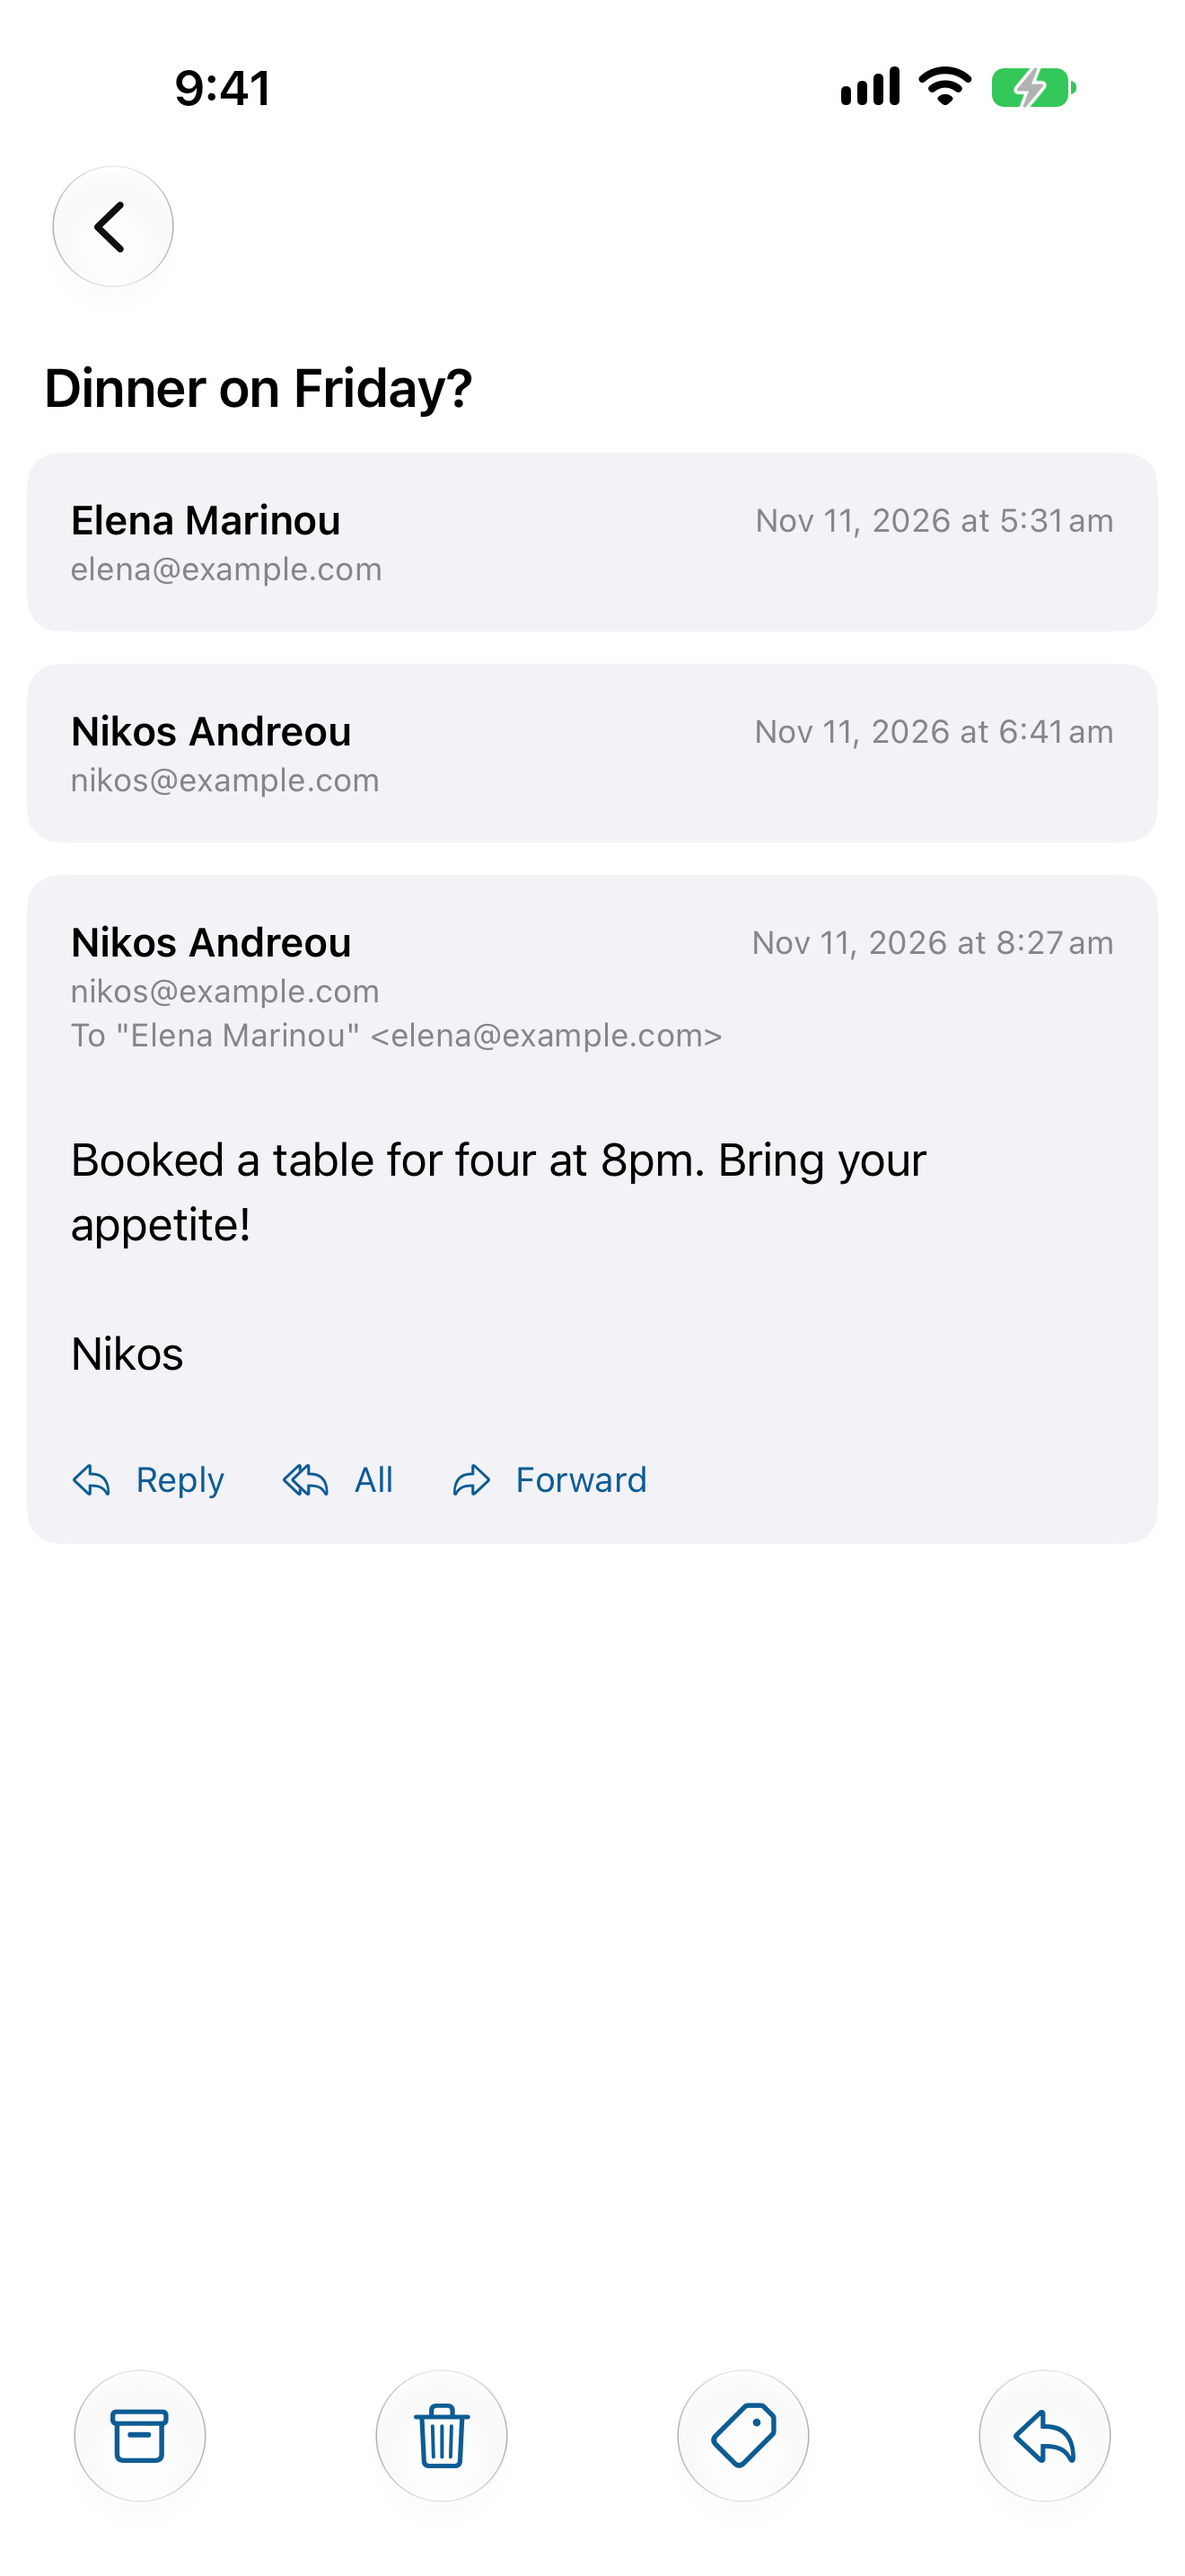
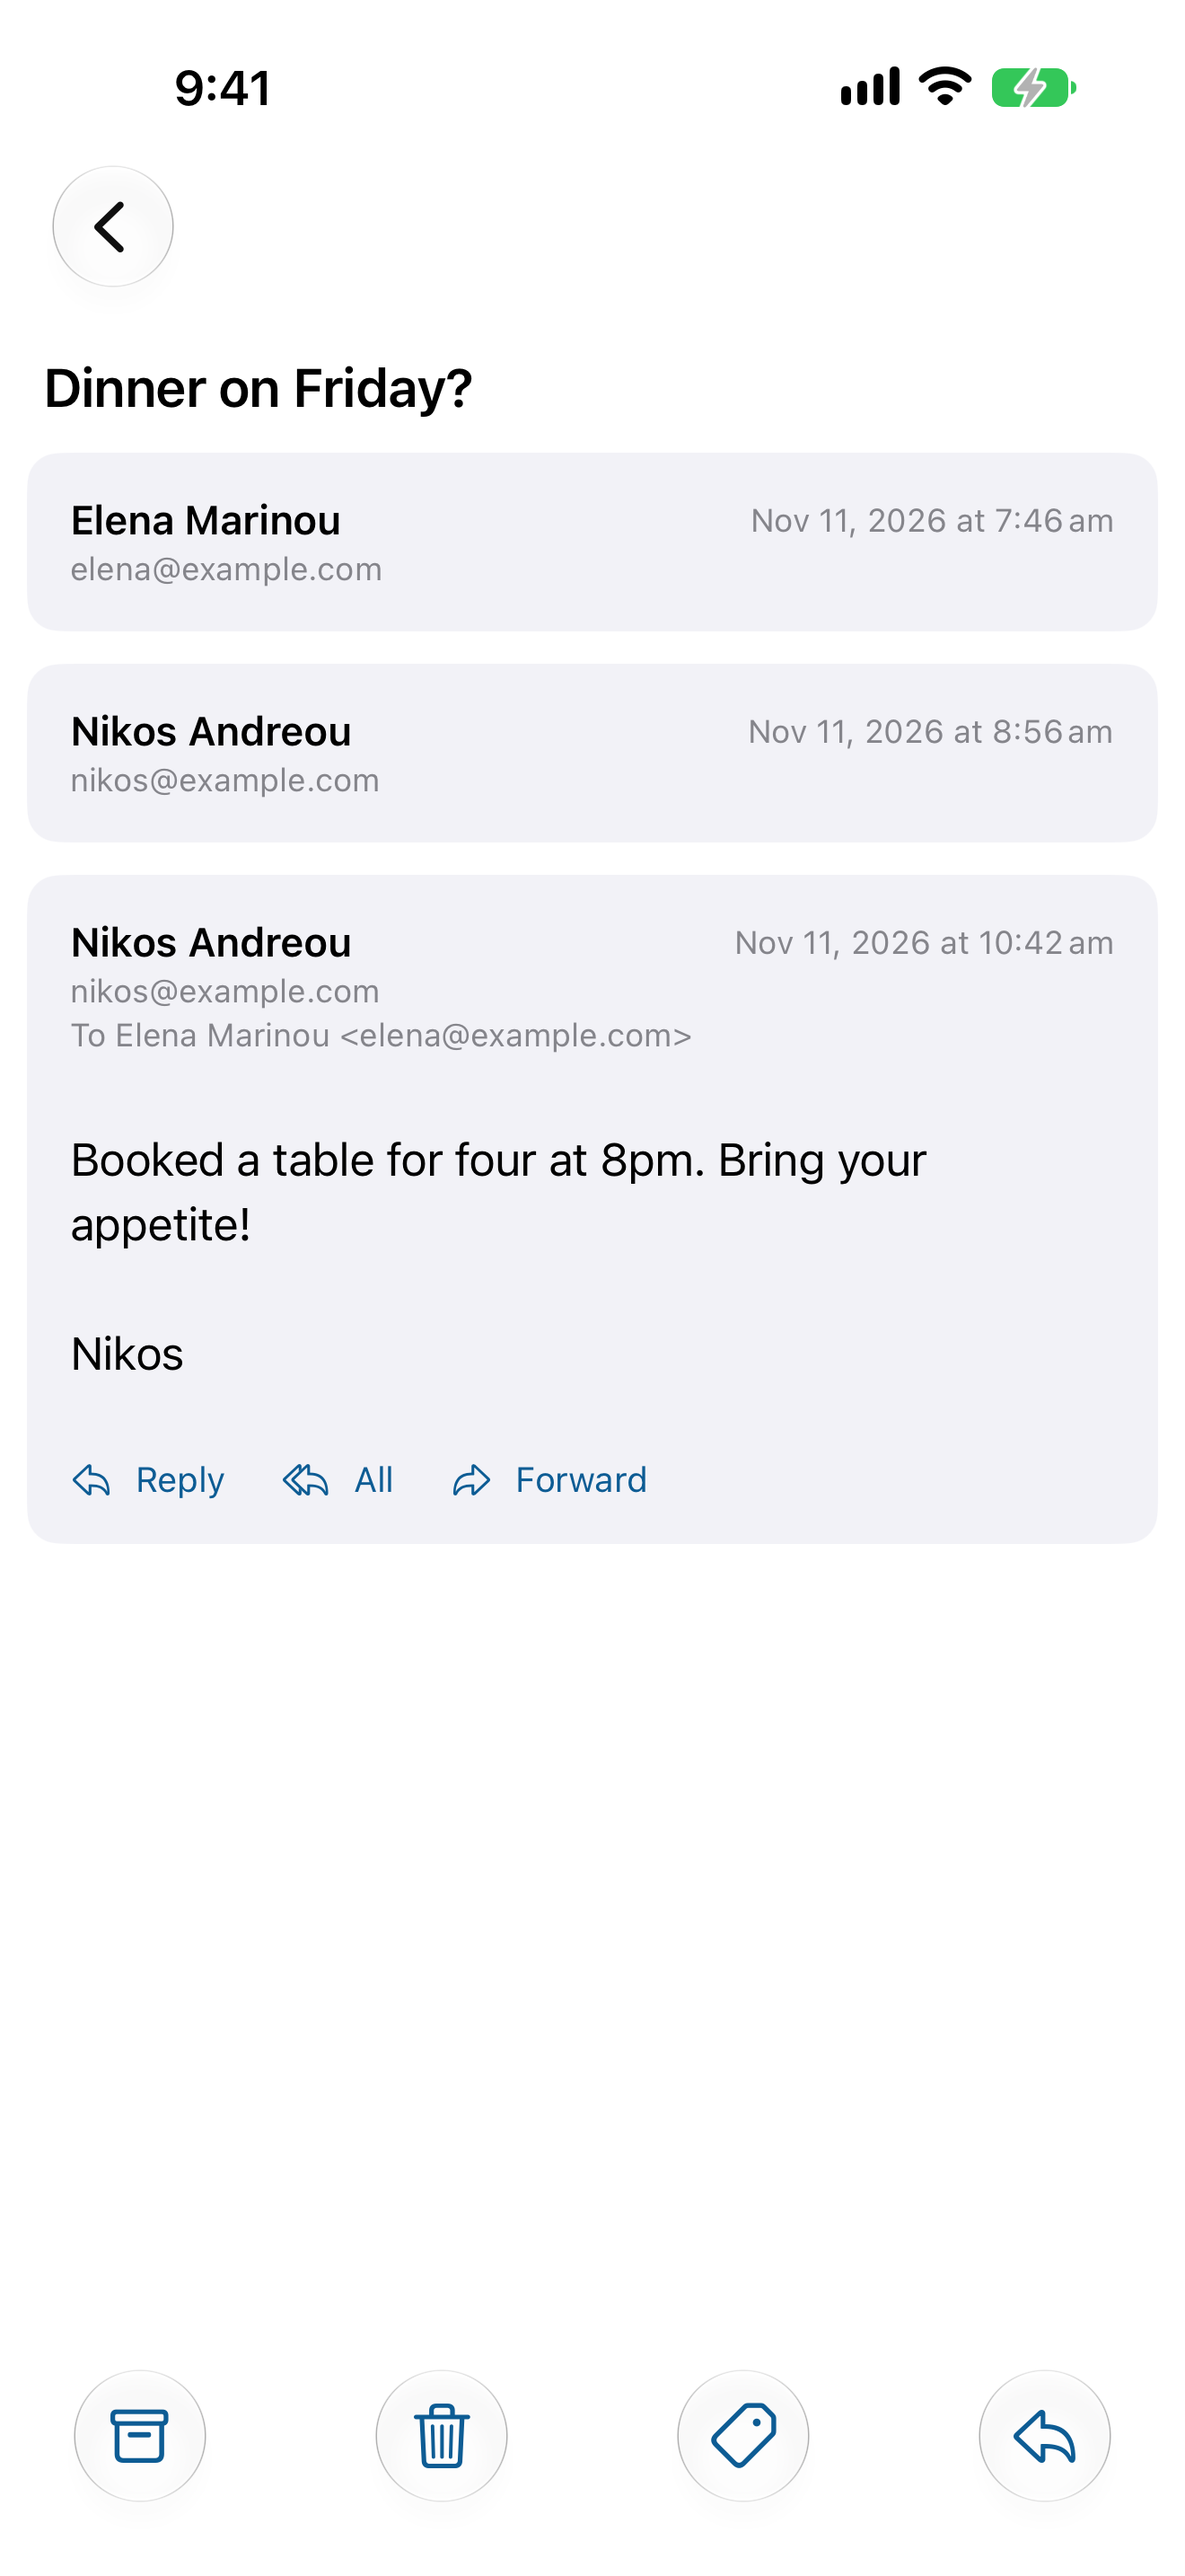
Send with the account's display name from Gmail's sendAs settings
Sent mail and drafts now go out as "Nikos Andreou <nikos@example.com>"
instead of the bare address. The name comes from users.settings.sendAs
(the entry for the account's own address, else the primary one), is fetched
once per account per launch, and falls back to the bare address when Gmail
has no name or can't be reached. Plain names are no longer quoted; names with
RFC 5322 specials are quoted and escaped, and non-ASCII names are encoded.

The mock serves sendAs and logs the exact From header; unit and UI tests
check it. Screenshots retaken so 5-Encrypted shows the sender's name. UI test
helpers only type once a field has keyboard focus.

diff --git a/AeoletUITests/ComposeUITests.swift b/AeoletUITests/ComposeUITests.swift
@@ -22,7 +22,10 @@ final class ComposeUITests: AeoletUITestCase {
         let start = logPosition
         send()
 
-        let sent = waitForLog("SEND from=\(Self.elena)", after: start)
+        let sent = waitForLog("SEND account=\(Self.elena)", after: start)
+        // The From line carries the display name from Gmail's sendAs settings.
+        XCTAssertTrue(sent.contains("from=Elena Marinou <elena@example.com> |"), sent)
+        waitForLog("GET /settings/sendAs account=\(Self.elena)")
         XCTAssertTrue(sent.contains("to=sofia@example.org |"), sent)
         XCTAssertTrue(sent.contains("cc= |"), sent)
         XCTAssertTrue(sent.contains("subject=Weekend plans |"), sent)
@@ -45,8 +48,8 @@ final class ComposeUITests: AeoletUITestCase {
         type("Sounds perfect, see you there. ", into: app.textViews.firstMatch)
         var start = logPosition
         send()
-        let reply = waitForLog("SEND from=\(Self.elena)", "subject=Re: Dinner on Friday?", after: start)
-        XCTAssertTrue(reply.contains("to=\"Nikos Andreou\" <nikos@example.com> |"), reply)
+        let reply = waitForLog("SEND account=\(Self.elena)", "subject=Re: Dinner on Friday?", after: start)
+        XCTAssertTrue(reply.contains("to=Nikos Andreou <nikos@example.com> |"), reply)
         XCTAssertTrue(reply.contains("cc= |"), reply)
         XCTAssertFalse(reply.contains("inReplyTo= |"), "Reply must carry In-Reply-To: \(reply)")
         XCTAssertFalse(reply.contains("threadId= |"), "Reply must stay in the thread: \(reply)")
@@ -61,7 +64,7 @@ final class ComposeUITests: AeoletUITestCase {
         XCTAssertFalse(ccValue.contains(Self.elena), "Reply all must not copy me: \(ccValue)")
         start = logPosition
         send()
-        let replyAll = waitForLog("SEND from=\(Self.elena)", "subject=Re: Dinner on Friday?", after: start)
+        let replyAll = waitForLog("SEND account=\(Self.elena)", "subject=Re: Dinner on Friday?", after: start)
         XCTAssertTrue(replyAll.contains("nikos@example.com"), replyAll)
         XCTAssertTrue(replyAll.contains("sofia@example.org") && replyAll.contains("maria@example.org"), replyAll)
         XCTAssertFalse(replyAll.contains("inReplyTo= |"), replyAll)
@@ -77,8 +80,11 @@ final class ComposeUITests: AeoletUITestCase {
         type("yannis@example.org", into: field("To"))
         start = logPosition
         send()
-        let forwarded = waitForLog("SEND from=\(Self.elena)", "subject=Fwd: Your ferry tickets", after: start)
+        let forwarded = waitForLog("SEND account=\(Self.elena)", "subject=Fwd: Your ferry tickets", after: start)
         XCTAssertTrue(forwarded.contains("to=yannis@example.org |"), forwarded)
+        XCTAssertTrue(forwarded.contains("from=Elena Marinou <elena@example.com> |"), forwarded)
+        // The name is fetched once per launch, not once per message.
+        XCTAssertFalse(log.contains { Self.number(ofLogLine: $0) > start && $0.contains("GET /settings/sendAs") }, "\(log)")
         XCTAssertTrue(forwarded.contains("attachments=Boarding passes.pdf |"), forwarded)
         XCTAssertTrue(forwarded.contains("inReplyTo= |"), forwarded)
         XCTAssertTrue(forwarded.contains("threadId= |"), forwarded)

diff --git a/Aeolet/Debug/MockGmail.swift b/Aeolet/Debug/MockGmail.swift
@@ -124,10 +124,13 @@ final class MockGmailServer: @unchecked Sendable {
 
     final class Mailbox {
         let address: String
+        /// The name Gmail's sendAs settings report for the primary address.
+        let displayName: String
         var messages: [Message] = []
         var labels: [Label]
-        init(address: String, labels: [Label]) {
+        init(address: String, displayName: String, labels: [Label]) {
             self.address = address
+            self.displayName = displayName
             self.labels = labels
         }
     }
@@ -255,6 +258,13 @@ final class MockGmailServer: @unchecked Sendable {
             record("GET /profile account=\(account)")
             return .success(.json(["emailAddress": account, "messagesTotal": mailbox.messages.count,
                                    "threadsTotal": Set(mailbox.messages.map(\.threadID)).count, "historyId": "\(1000 + counter)"]))
+        case ("GET", "settings", 2) where parts[1] == "sendAs":
+            record("GET /settings/sendAs account=\(account)")
+            return .success(.json(["sendAs": [
+                ["sendAsEmail": "\(account.split(separator: "@")[0])+alias@example.com", "displayName": "Alias", "isPrimary": false, "isDefault": false],
+                ["sendAsEmail": account, "displayName": mailbox.displayName, "replyToAddress": "", "signature": "",
+                 "isPrimary": true, "isDefault": true, "treatAsAlias": false],
+            ]]))
         case ("GET", "labels", 1):
             return .success(.json(["labels": mailbox.labels.map { ["id": $0.id, "name": $0.name, "type": $0.type] }]))
         case ("GET", "labels", 2):
@@ -378,7 +388,7 @@ final class MockGmailServer: @unchecked Sendable {
 
         let sent = store(raw: raw, in: mailbox, labels: draft ? ["DRAFT"] : ["SENT"], threadID: requestedThread)
         let summary = Self.summary(of: sent, threadID: requestedThread)
-        record("\(draft ? "DRAFT" : "SEND") from=\(mailbox.address) \(summary)")
+        record("\(draft ? "DRAFT" : "SEND") account=\(mailbox.address) from=\(sent.header("From")) | \(summary)")
 
         if !draft {
             let recipients = (sent.header("To") + "," + sent.header("Cc") + "," + sent.header("Bcc"))

diff --git a/Aeolet/Mail/ComposeModel.swift b/Aeolet/Mail/ComposeModel.swift
@@ -95,13 +95,29 @@ final class ComposeModel: ObservableObject {
         }
     }
 
+    /// Display names from Gmail's sendAs settings, fetched once per account per launch.
+    private static var senderNames: [String: String] = [:]
+
+    /// The account's display name. If Gmail can't be asked (offline, say), the mail goes out with the bare address.
+    private func senderName() async -> String? {
+        if let cached = Self.senderNames[account] { return cached.isEmpty ? nil : cached }
+        do {
+            let name = try await client.senderDisplayName()
+            Self.senderNames[account] = name ?? ""
+            return name
+        } catch {
+            return nil
+        }
+    }
+
     private var isReply: Bool { context.mode == .reply || context.mode == .replyAll }
 
     private func buildMessage(passphrase: String?) async throws -> Data {
         let content = MIMEBuilder.contentEntity(text: body, attachments: attachments)
         let entity = try await pgp.protect(entity: content, account: account, recipients: recipients,
                                            encrypt: encrypt, sign: sign, passphrase: passphrase)
-        var headers = OutgoingHeaders(from: account, to: to.splitAddresses, cc: cc.splitAddresses, bcc: bcc.splitAddresses, subject: subject)
+        let from = OutgoingHeaders.sender(account: account, displayName: await senderName())
+        var headers = OutgoingHeaders(from: from, to: to.splitAddresses, cc: cc.splitAddresses, bcc: bcc.splitAddresses, subject: subject)
         if isReply, let source = context.source, !source.messageIDHeader.isEmpty {
             headers.inReplyTo = source.messageIDHeader
             headers.references = [source.references, source.messageIDHeader].filter { !$0.isEmpty }.joined(separator: " ")

diff --git a/AeoletTests/CoreTests.swift b/AeoletTests/CoreTests.swift
@@ -126,4 +126,25 @@ final class CoreTests: XCTestCase {
         XCTAssertNil(cached.contentType)
         XCTAssertEqual(cached.preview, .encrypted)
     }
+
+    func testFromLineUsesTheSendAsDisplayName() {
+        let entries = [
+            GmailSendAs(sendAsEmail: "alias@example.com", displayName: "Alias", isPrimary: false, isDefault: false),
+            GmailSendAs(sendAsEmail: "Nikos@Example.com", displayName: " Nikos Andreou ", isPrimary: true, isDefault: true),
+        ]
+        let name = GmailClient.displayName(for: "nikos@example.com", in: entries)
+        XCTAssertEqual(name, "Nikos Andreou")
+        XCTAssertNil(GmailClient.displayName(for: "a@example.com", in: [GmailSendAs(sendAsEmail: "a@example.com", displayName: "", isPrimary: true, isDefault: true)]))
+
+        func fromLine(_ name: String?) -> String {
+            let headers = OutgoingHeaders(from: OutgoingHeaders.sender(account: "nikos@example.com", displayName: name), to: ["e@example.com"], subject: "Hi")
+            let text = String(decoding: MIMEBuilder.message(headers: headers, entity: Data("\r\nbody".utf8), senderDomain: "example.com"), as: UTF8.self)
+            return text.components(separatedBy: "\r\n").first { $0.hasPrefix("From: ") } ?? ""
+        }
+        XCTAssertEqual(fromLine(name), "From: Nikos Andreou <nikos@example.com>")
+        XCTAssertEqual(fromLine(nil), "From: nikos@example.com")
+        XCTAssertEqual(fromLine("Andreou, Nikos"), "From: \"Andreou, Nikos\" <nikos@example.com>")
+        XCTAssertEqual(fromLine("Νίκος Ανδρέου"), "From: =?UTF-8?B?zp3Or866zr/PgiDOkc69zrTPgc6tzr/PhQ==?= <nikos@example.com>")
+        XCTAssertFalse(fromLine("Nikos\r\nBcc: evil@example.org").contains("\r\nBcc"))
+    }
 }

diff --git a/Aeolet/Mail/MIME.swift b/Aeolet/Mail/MIME.swift
@@ -333,6 +333,12 @@ struct OutgoingAttachment: Identifiable, Hashable {
 }
 
 struct OutgoingHeaders {
+    /// "Name <address>", or just the address when there is no name.
+    static func sender(account: String, displayName: String?) -> String {
+        let name = MIMEBuilder.sanitised(displayName ?? "")
+        return name.isEmpty ? account : "\(name) <\(account)>"
+    }
+
     var from: String
     var to: [String]
     var cc: [String] = []
@@ -375,7 +381,11 @@ enum MIMEBuilder {
         let mailbox = String(clean[open...])
         if name.isEmpty { return mailbox }
         if name.allSatisfy({ $0.isASCII }) {
-            return "\"\(name.replacingOccurrences(of: "\"", with: ""))\" \(mailbox)"
+            // Plain names go as they are; names with RFC 5322 specials, such as "Andreou, Nikos", are quoted.
+            let specials = CharacterSet(charactersIn: "()<>[]:;@\\,.\"")
+            if name.unicodeScalars.allSatisfy({ !specials.contains($0) }) { return "\(name) \(mailbox)" }
+            let escaped = name.replacingOccurrences(of: "\\", with: "\\\\").replacingOccurrences(of: "\"", with: "\\\"")
+            return "\"\(escaped)\" \(mailbox)"
         }
         return "\(encodeHeaderWord(name)) \(mailbox)"
     }

diff --git a/Aeolet/Gmail/GmailClient.swift b/Aeolet/Gmail/GmailClient.swift
@@ -138,6 +138,20 @@ struct GmailClient {
 
     func profile() async throws -> GmailProfile { try await get("/profile") }
 
+    /// The display name Gmail uses for this account's own address, from its "Send mail as" settings.
+    /// Nil when Gmail has none set.
+    func senderDisplayName() async throws -> String? {
+        let list: GmailSendAsList = try await get("/settings/sendAs")
+        return Self.displayName(for: account, in: list.sendAs ?? [])
+    }
+
+    static func displayName(for account: String, in entries: [GmailSendAs]) -> String? {
+        let own = entries.first { $0.sendAsEmail.caseInsensitiveCompare(account) == .orderedSame }
+            ?? entries.first { $0.isPrimary == true }
+        let name = own?.displayName?.trimmingCharacters(in: .whitespacesAndNewlines) ?? ""
+        return name.isEmpty ? nil : name
+    }
+
     func labels() async throws -> [GmailLabel] {
         struct Response: Decodable { let labels: [GmailLabel]? }
         let listed: Response = try await get("/labels")

diff --git a/AeoletUITests/AeoletUITestCase.swift b/AeoletUITests/AeoletUITestCase.swift
@@ -68,6 +68,8 @@ class AeoletUITestCase: XCTestCase {
     /// Number of the latest request, for "anything after this point" checks.
     var logPosition: Int { probe["seq"] as? Int ?? 0 }
 
+    static func number(ofLogLine line: String) -> Int { number(of: line) }
+
     private static func number(of line: String) -> Int {
         Int(line.dropFirst().prefix { $0.isNumber }) ?? 0
     }
@@ -287,6 +289,8 @@ class AeoletUITestCase: XCTestCase {
             field.tap()
             _ = app.keyboards.firstMatch.waitForExistence(timeout: 5)
             RunLoop.current.run(until: Date().addingTimeInterval(1.0))
+            // On iPad the tap can land while the sheet is still settling; typing then fails outright.
+            guard hasFocus(field) else { continue }
             field.typeText(text)
             // Long values are reported truncated, as "••••…" or "••••...".
             shown = field.value as? String ?? ""

diff --git a/Aeolet/Debug/MockGmailFixtures.swift b/Aeolet/Debug/MockGmailFixtures.swift
@@ -45,8 +45,8 @@ enum MockGmailFixtures {
     }
 
     static func mailboxes(server: MockGmailServer) -> [MockGmailServer.Mailbox] {
-        let elenaBox = MockGmailServer.Mailbox(address: elena, labels: systemLabels + userLabels)
-        let nikosBox = MockGmailServer.Mailbox(address: nikos, labels: systemLabels + userLabels)
+        let elenaBox = MockGmailServer.Mailbox(address: elena, displayName: "Elena Marinou", labels: systemLabels + userLabels)
+        let nikosBox = MockGmailServer.Mailbox(address: nikos, displayName: "Nikos Andreou", labels: systemLabels + userLabels)
         load(elenaThreads(), into: elenaBox, server: server)
         load(nikosThreads(), into: nikosBox, server: server)
         return [elenaBox, nikosBox]

diff --git a/AeoletUITests/PGPUITests.swift b/AeoletUITests/PGPUITests.swift
@@ -86,8 +86,9 @@ final class PGPUITests: AeoletUITestCase {
         var start = logPosition
         app.buttons["Send"].tap()
         enterPassphrase(Self.passphrase, confirm: "Sign and send")
-        let sent = waitForLog("SEND from=\(Self.elena)", "subject=Lighthouse", after: start, timeout: 40)
+        let sent = waitForLog("SEND account=\(Self.elena)", "subject=Lighthouse", after: start, timeout: 40)
         XCTAssertTrue(sent.hasSuffix("pgp=encrypted"), "Message was not PGP/MIME encrypted: \(sent)")
+        XCTAssertTrue(sent.contains("from=Elena Marinou <elena@example.com> |"), sent)
         waitForLog("DELIVER to=\(Self.nikos)", after: start)
 
         // Nikos decrypts it and sees a verified signature.

diff --git a/Aeolet/Gmail/GmailModels.swift b/Aeolet/Gmail/GmailModels.swift
@@ -47,6 +47,18 @@ struct GmailThread: Codable {
     let messages: [GmailMessage]?
 }
 
+/// One entry of users.settings.sendAs.list.
+struct GmailSendAs: Codable {
+    let sendAsEmail: String
+    let displayName: String?
+    let isPrimary: Bool?
+    let isDefault: Bool?
+}
+
+struct GmailSendAsList: Codable {
+    let sendAs: [GmailSendAs]?
+}
+
 struct GmailThreadList: Codable {
     let threads: [GmailThread]?
     let nextPageToken: String?
